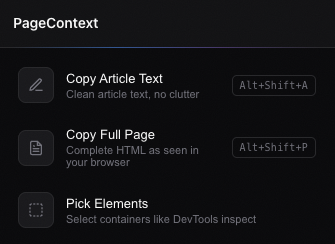
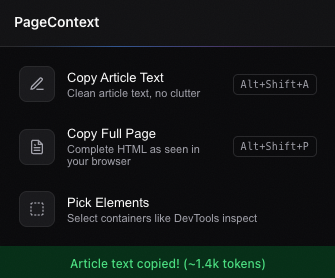
feat: add token estimation in copy result

diff --git a/popup/popup.js b/popup/popup.js
@@ -30,6 +30,12 @@ async function injectAndRun(files, func) {
   return result;
 }
 
+function estimateTokens(text) {
+  const count = Math.ceil(text.length / 4);
+  if (count >= 1000) return `~${(count / 1000).toFixed(1)}k`;
+  return `~${count}`;
+}
+
 function showStatus(message, type) {
   statusEl.textContent = message;
   statusEl.className = `status ${type}`;
@@ -45,7 +51,7 @@ async function copyResult(fn, emptyMsg, successMsg, errorMsg) {
       return;
     }
     await navigator.clipboard.writeText(result);
-    showStatus(successMsg, "success");
+    showStatus(`${successMsg} (${estimateTokens(result)} tokens)`, "success");
   } catch (err) {
     showStatus(errorMsg, "error");
     console.error(err);

diff --git a/popup/popup.css b/popup/popup.css
@@ -7,7 +7,7 @@
   --border-hover: #3f3f46;
   --border-accent: #3b82f6;
   --text: #fafafa;
-  --text-muted: #71717a;
+  --text-muted: #a1a1aa;
   --text-accent: #60a5fa;
   --primary: #fafafa;
   --primary-hover: #e4e4e7;
